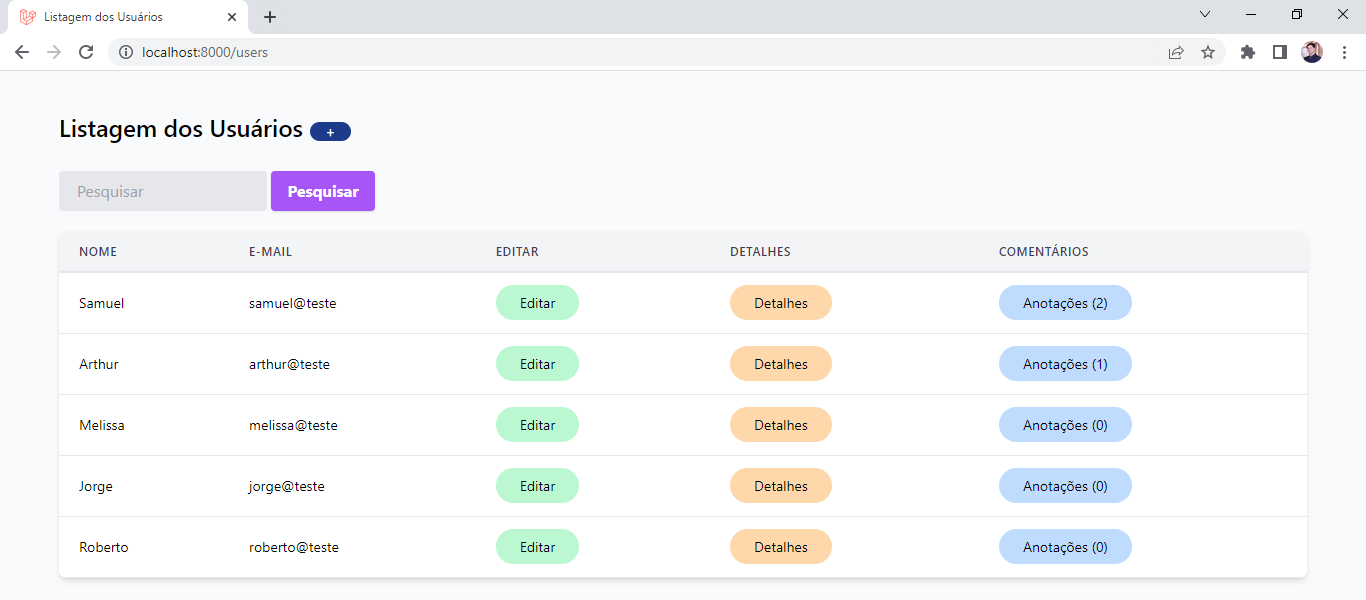
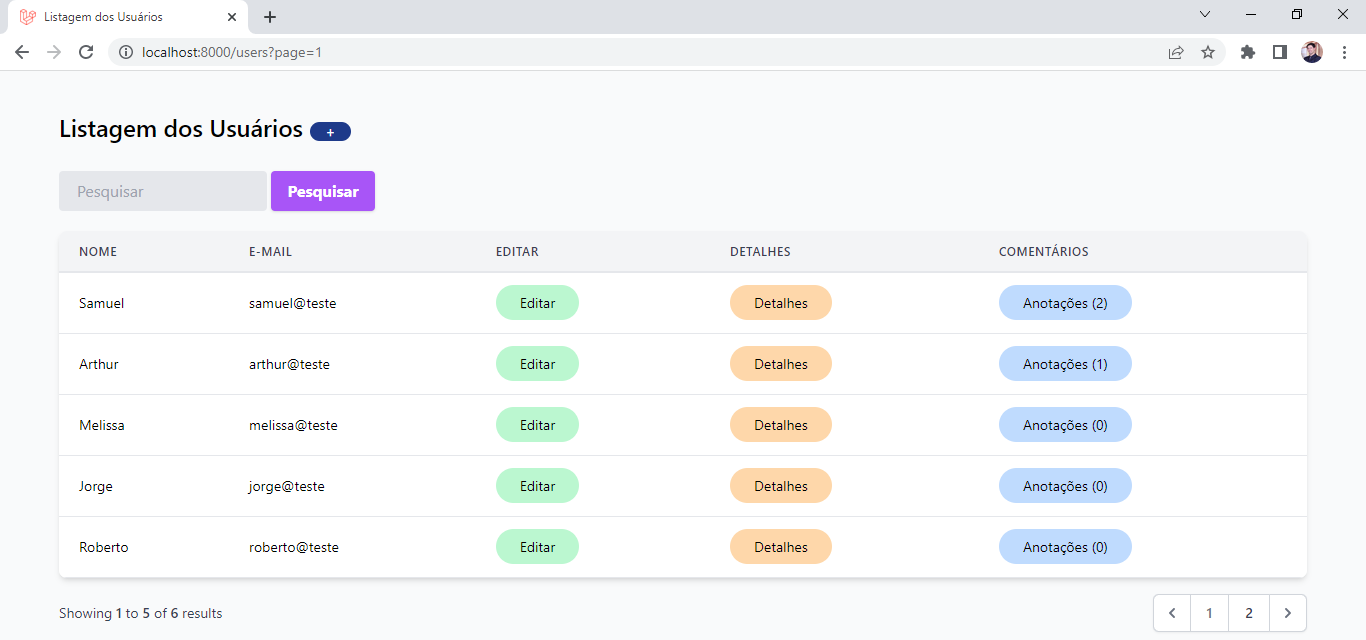
Paginando usuários

diff --git a/app/Models/User.php b/app/Models/User.php
@@ -49,7 +49,8 @@ class User extends Authenticatable
                 $query->where('email', $search);
                 $query->orWhere('name', 'LIKE', "%{$search}%");
             }
-        })->with('comments')->get();
+        })->with('comments')->paginate(5);
+        // 5 itens por página, default (vazio) é 15
 
         return $users;
     }

diff --git a/resources/views/users/index.blade.php b/resources/views/users/index.blade.php
@@ -64,4 +64,10 @@
         @endforeach
         </tbody>
     </table>
+
+    <div class="py-4">
+        {{ $users->appends([
+            'search' => request()->get('search', '')
+        ])->links() }}
+    </div>
 @endsection
